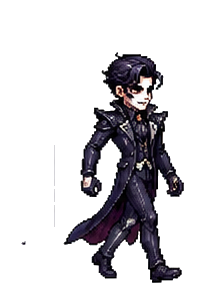
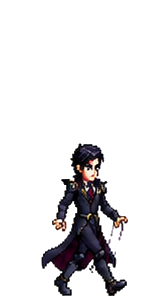
Hoja de sprites ampliada: agacharse y mas frames de andar y atacar
- Nueva Sheet.png de 16 columnas por personaje: idle x2, crouch x2,
  walk x4, attack x4, special x2, jump y hurt
- Cortador basado en los divisores reales de la tabla (la cuadricula
  nueva es irregular y la division uniforme metia lineas en los frames)
- Caminar ahora es un ciclo de 4 frames y el golpe una animacion de
  4 fases sincronizada con sus frames activos
- Agacharse usa sus sprites reales (alternando) en vez de aplastar
  la figura; el aplastamiento queda como respaldo sin sprites
- spriteHeight recalculado para el tamano de la hoja nueva

diff --git a/js/sprites.js b/js/sprites.js
@@ -5,10 +5,11 @@
 //  archivos PNG con estos nombres (los que falten no pasan nada:
 //  se usa el muñeco vectorial de siempre como respaldo):
 //
-//    idle1.png  idle2.png      → quieto (alternan)
-//    walk1.png  walk2.png      → caminando (alternan)
-//    attack1.png attack2.png   → golpe (preparación / impacto)
-//    special1.png special2.png → habilidad especial
+//    idle1/2.png               → quieto (alternan)
+//    crouch1/2.png             → agachado (alternan)
+//    walk1/2/3/4.png           → ciclo de caminar
+//    attack1/2/3/4.png         → golpe (preparación → impacto → final)
+//    special1/2.png            → habilidad especial
 //    jump.png                  → en el aire (también el dash)
 //    hurt.png                  → recibir golpe (también el KO, tumbado)
 //
@@ -16,9 +17,10 @@
 // ============================================================
 
 const SPRITE_POSES = [
-  'idle1', 'idle2', 'walk1', 'walk2',
-  'attack1', 'attack2', 'special1', 'special2',
-  'jump', 'hurt'
+  'idle1', 'idle2', 'crouch1', 'crouch2',
+  'walk1', 'walk2', 'walk3', 'walk4',
+  'attack1', 'attack2', 'attack3', 'attack4',
+  'special1', 'special2', 'jump', 'hurt'
 ];
 
 const Sprites = {
@@ -44,6 +46,12 @@ const Sprites = {
     const set = this.cache[def.name];
     if (!set) return null;
     return set[pose] || set['idle1'] || null;
+  },
+
+  // ¿Existe exactamente esa pose? (sin contar el respaldo de idle1)
+  exact(def, pose) {
+    const set = this.cache[def.name];
+    return !!(set && set[pose]);
   }
 };
 
@@ -51,10 +59,17 @@ const Sprites = {
 function spritePoseFor(f) {
   const tick = Math.floor(performance.now() / 180) % 2;
   if (f.state === 'ko' || f.state === 'hit') return 'hurt';
-  if (f.state === 'attack') return f.stateTimer > 10 ? 'attack1' : 'attack2';
+  if (f.state === 'attack') {
+    // animación de 4 fases sobre los 14 frames del golpe
+    if (f.stateTimer > 10) return 'attack1';
+    if (f.stateTimer > 7) return 'attack2';
+    if (f.stateTimer > 4) return 'attack3';
+    return 'attack4';
+  }
   if (f.state === 'recover') return f.stateTimer > 7 ? 'special1' : 'special2';
   if (f.state === 'dash' || !f.onGround) return 'jump';
-  if (f.vx !== 0) return tick ? 'walk2' : 'walk1';
+  if (f.crouching) return tick ? 'crouch2' : 'crouch1';
+  if (f.vx !== 0) return 'walk' + (Math.floor(performance.now() / 140) % 4 + 1);
   return tick ? 'idle2' : 'idle1';
 }
 

diff --git a/js/characters.js b/js/characters.js
@@ -43,7 +43,7 @@ const CHARACTERS = [
     name: 'BARBERO',
     title: 'El Titiritero',
     spriteFolder: 'img/barbero',
-    spriteHeight: 210,  // alto del lienzo del sprite en pantalla (el cuerpo ocupa ~80%)
+    spriteHeight: 329,  // alto del lienzo del sprite en pantalla (cuerpo ≈170px)
     color: '#8b5cf6',
     skinColor: '#fcd9b8',
     hairColor: '#27272a',
@@ -65,7 +65,7 @@ const CHARACTERS = [
     name: 'MERYG',
     title: 'La Voz del Pueblo',
     spriteFolder: 'img/meryg',
-    spriteHeight: 228,  // alto del lienzo del sprite en pantalla (el cuerpo ocupa ~75%)
+    spriteHeight: 315,  // alto del lienzo del sprite en pantalla (cuerpo ≈170px)
     color: '#ec4899',
     skinColor: '#f3c6a5',
     hairColor: '#7c2d12',

diff --git a/js/fighter.js b/js/fighter.js
@@ -288,10 +288,12 @@ class Fighter {
       ctx.translate(0, 28);
     }
     if (this.facing === -1) ctx.scale(-1, 1);
-    if (this.crouching) ctx.scale(1, 0.55);
+    const pose = spritePoseFor(this);
+    // aplastar la figura al agacharse solo si NO hay sprite real de agachado
+    if (this.crouching && !Sprites.exact(this.def, pose)) ctx.scale(1, 0.55);
     if (this.state === 'dash') ctx.globalAlpha = 0.6; // intangible
 
-    const sprite = Sprites.get(this.def, spritePoseFor(this));
+    const sprite = Sprites.get(this.def, pose);
     if (sprite) {
       const sh = this.def.spriteHeight || 150;
       const sw = sh * sprite.width / sprite.height;

diff --git a/js/game.js b/js/game.js
@@ -483,7 +483,8 @@ function drawSelect() {
     // figura del personaje (sprite si lo tiene, muñeco si no)
     const cardSprite = Sprites.get(def, 'idle1');
     if (cardSprite) {
-      const sh = 175; // el lienzo trae aire arriba: así el cuerpo llena la carta
+      // proporcional al tamaño en combate (el lienzo trae aire arriba)
+      const sh = def.spriteHeight ? def.spriteHeight * 0.85 : 175;
       const sw = sh * cardSprite.width / cardSprite.height;
       ctx.drawImage(cardSprite, x + cardW / 2 - sw / 2, y + 200 - sh, sw, sh);
     } else {
